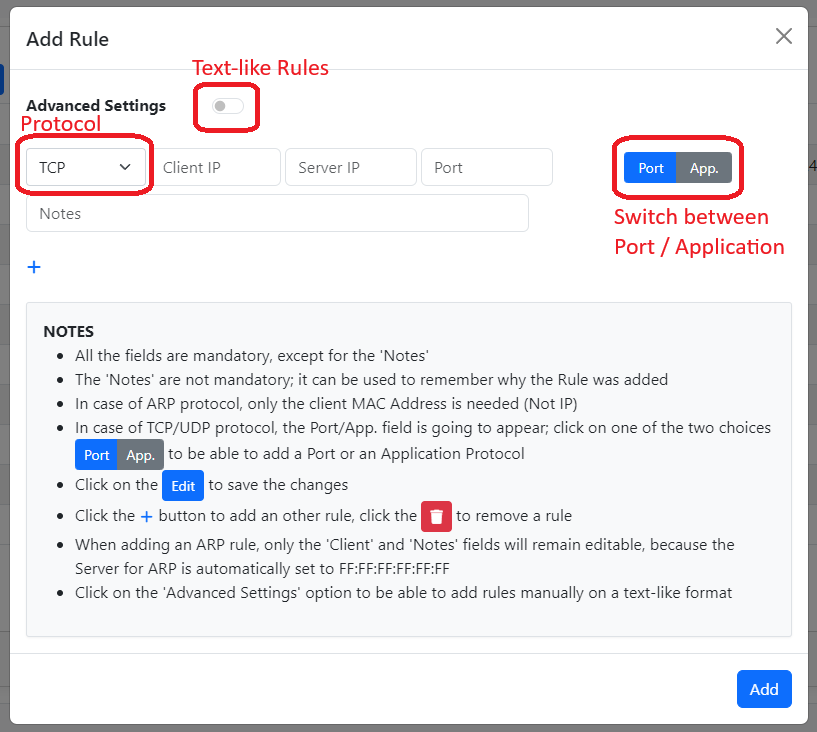
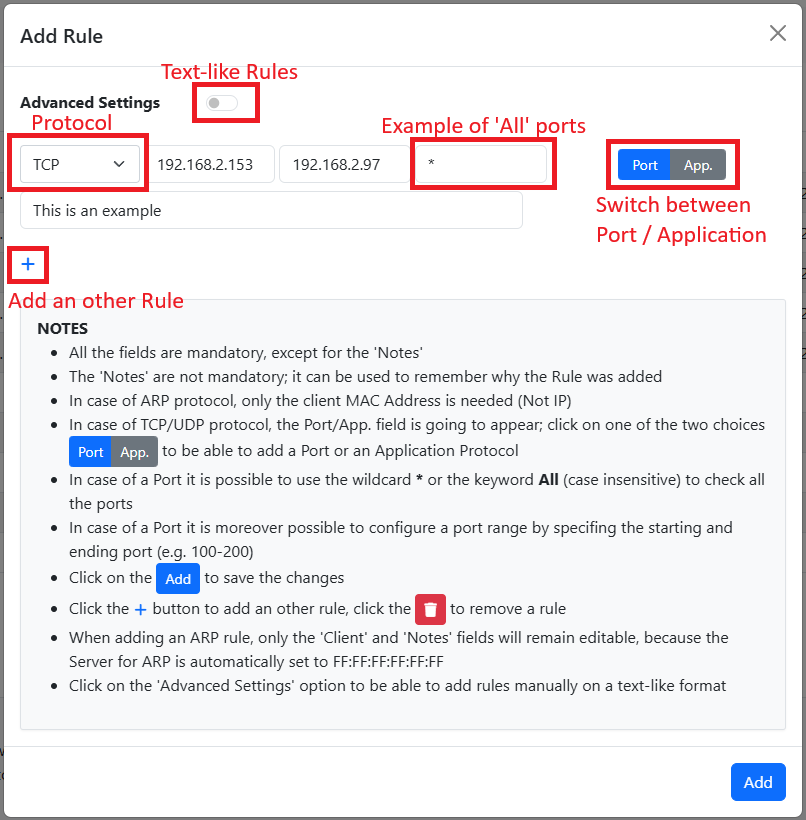
Updated documentation with ACL changes

Changed region(s): [[0.0, 0.0, 1.0, 1.0], [0.4653, 0.1202, 0.7134, 0.2705]]

diff --git a/doc/src/web_gui/policies.rst b/doc/src/web_gui/policies.rst
@@ -78,6 +78,13 @@ All parameters are mandatory except in some cases:
 
   PORT|APPLICATION are only available for the TCP/UDP protocols
 
+In case of PORT|APPLICATION:
+ - The application needs to be put in text-like format, e.g. HTTP, TLS, ...;
+ - In case of ports, 3 possibilities are available: 
+    - Configure a single port (e.g. 53);
+    - Configure a port-range, set the starting port and ending port (e.g. 1-100);
+    - Configure all ports to be accepted, in this case it can be done by putting the wildcard `*` or the `all` keyword (case insensitive);
+
 It is not recommended to use the Advanced Settings if not for special cases, because in the other case all the controls are handled by ntopng.
 It is moreover possible to add multiple rules in a single add, by clicking the `+` below the last rule; it is possible to remove a rule instead by clicking the trash icon.
 

diff --git a/doc/src/alerts/index.rst b/doc/src/alerts/index.rst
@@ -17,4 +17,4 @@ Contrary to tools based on signatures, ntopng is a behavioural-based tool. Below
     alerts_list_per_license
     available_recipients
     risk_and_check_exclusion
-    developing_alerts
+    remediations/index

diff --git a/doc/src/scripts/developing_alerts.rst b/doc/src/scripts/developing_alerts.rst
@@ -11,7 +11,7 @@ ntopng has the ability to create alerts; there are various alerts family (Flow, 
     syslog_checks
 
 
-Here a couple of examples of alerts:
+Here a couple of examples:
 
 .. toctree::
     :maxdepth: 2

diff --git a/doc/src/alerts/available_alerts.rst b/doc/src/alerts/available_alerts.rst
@@ -39,6 +39,5 @@ Below you can find the list of check families and available alerts
     system_checks
     active_monitoring_checks
     syslog_checks
-    host_rules
     
 
